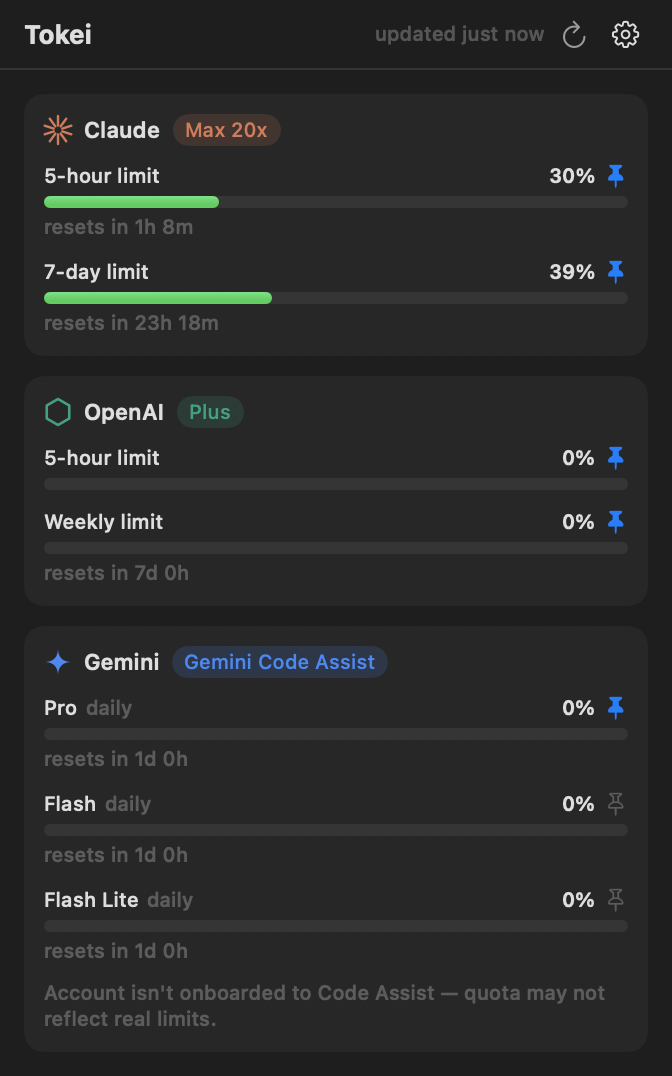
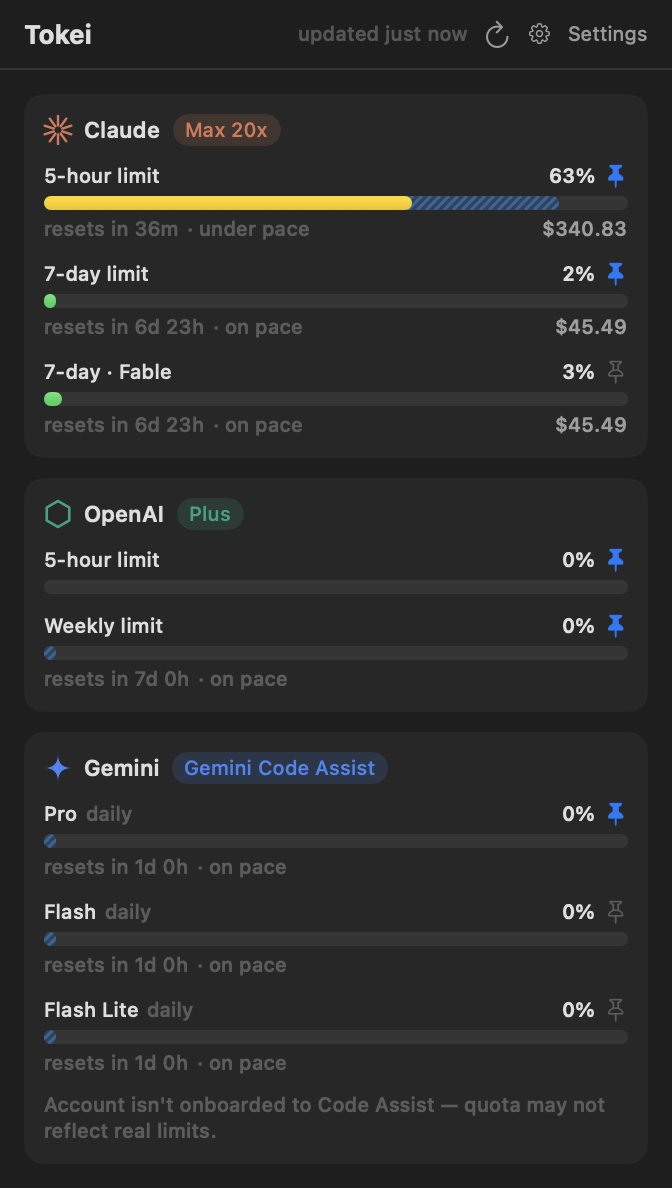
Refresh README screenshots and content for v1.4.0 features
New light/dark captures from the live app showing the pace indicator,
per-window inference dollars, and the Settings button; adds a Settings
window screenshot (Models tab). README now documents the pace
indicator, Claude inference-dollar pricing (with its transcript-based
methodology and caveats), the Settings window, and notarized releases;
install steps drop the right-click-to-open dance; self-test now
captures settings tabs in both appearances.

diff --git a/Sources/Tokei/Main.swift b/Sources/Tokei/Main.swift
@@ -243,14 +243,21 @@ final class AppDelegate: NSObject, NSApplicationDelegate {
             try? await Task.sleep(for: .milliseconds(600))
             if let window = settingsWindow, let store {
                 report.append("settingsWindow.visible: \(window.isVisible)")
+                let appearances: [(String, NSAppearance.Name, CGFloat)] = [
+                    ("light", .aqua, 0.97), ("dark", .darkAqua, 0.13),
+                ]
                 for tab in SettingsView.Tab.allCases {
                     let host = NSHostingController(
                         rootView: SettingsView(store: store, initialTab: tab))
                     window.contentViewController = host
-                    host.view.layoutSubtreeIfNeeded()
-                    try? await Task.sleep(for: .milliseconds(400))
-                    snapshot(host.view, to: "\(outputDir)/settings-\(tab.rawValue.lowercased()).png",
-                             background: NSColor(calibratedWhite: 0.97, alpha: 1))
+                    for (suffix, appearance, white) in appearances {
+                        host.view.appearance = NSAppearance(named: appearance)
+                        host.view.layoutSubtreeIfNeeded()
+                        try? await Task.sleep(for: .milliseconds(400))
+                        snapshot(host.view,
+                                 to: "\(outputDir)/settings-\(tab.rawValue.lowercased())-\(suffix).png",
+                                 background: NSColor(calibratedWhite: white, alpha: 1))
+                    }
                 }
                 window.close()
             }

diff --git a/README.md b/README.md
@@ -33,7 +33,7 @@ Tokei reads the credentials your local CLIs are already signed in with — no AP
 
 | Provider | Metrics | Source |
 |---|---|---|
-| **Claude** (Anthropic) | 5-hour and 7-day limits, plus model-scoped weekly limits (e.g. Fable, Opus) when your plan reports them | Claude Code's OAuth token → the same endpoint as `/usage` |
+| **Claude** (Anthropic) | 5-hour and 7-day limits, model-scoped weekly limits (e.g. Fable), and the dollar value of inference used per window | Claude Code's OAuth token → the same endpoint as `/usage`, plus local transcript pricing |
 | **OpenAI** (Codex) | 5-hour and weekly rate-limit windows, plan, credits | `~/.codex/auth.json` → the endpoint behind Codex's `/status` |
 | **Gemini** (Google) | Per-tier daily quota (Pro / Flash / Flash Lite) | `~/.gemini/oauth_creds.json` → Code Assist quota API |
 
@@ -41,21 +41,29 @@ Everything runs locally. Tokens are read from where the CLIs store them, request
 
 ## Features
 
-- **Menu bar readout** — each provider appears as its logo glyph with its pinned percentages, e.g. `✳ 29·39%  ⬡ 0·0%  ✦ 0%`. Pin or unpin any metric from its row; unpin everything for an icon-only look. ⌘-drag to reposition.
+- **Menu bar readout** — each provider appears as its logo glyph with its pinned percentages, e.g. `✳ 63·2%  ⬡ 0·0%  ✦ 0%`. Pin or unpin any metric; unpin everything for an icon-only look. ⌘-drag to reposition.
 - **Dashboard popover** — per-provider cards with color-coded usage bars (green → yellow → orange → red), plan badges (Max 20x, Plus, …), and live "resets in 2h 38m" countdowns.
+- **Pace indicator** — a hatched blue segment inside each bar marks where usage would sit if burned evenly until reset, with an "ahead of / on / under pace" note beside the countdown. Toggleable in Settings.
+- **Inference dollars (Claude)** — each window shows the API-equivalent dollar value of the inference used in it (e.g. `$340.83`), priced from Claude Code's local transcripts at current per-model rates, including cache-write and cache-read pricing.
 - **Both windows, always** — Claude and OpenAI always show their 5-hour and 7-day/weekly windows (an unreported window means 0% used). Gemini shows daily windows — the only kind Google's quota API has.
-- **Auto-refresh** — every 1/5/15/30 minutes plus refresh-on-open. Transient failures (including provider rate limits) keep the last good data on screen with a warning, and failed fetches retry automatically.
-- **In-app updates** — Tokei checks GitHub Releases twice a day (and via gear menu → Check for Updates); when a new version ships, a banner appears in the popover and one click downloads, installs, and relaunches.
-- **Launch at Login**, per-provider show/hide, graceful "not signed in" hints.
+- **Settings window** — General (open at login, refresh interval, pace toggle, updates), Models (provider visibility and menu-bar pins in one place), About.
+- **In-app updates** — Tokei checks GitHub Releases twice a day (and via Settings → Check for Updates); when a new version ships, a banner appears in the popover and one click downloads, installs, and relaunches. Releases are signed and notarized.
+- **Auto-refresh** — every 1/5/15/30 minutes plus refresh-on-open. Transient failures (including provider rate limits) keep the last good data on screen, and failed fetches retry automatically.
+
+<div align="center">
+<picture>
+  <source media="(prefers-color-scheme: dark)" srcset="Assets/screenshots/settings-dark.png">
+  <img src="Assets/screenshots/settings-light.png" width="480" alt="Tokei settings">
+</picture>
+</div>
 
 ## Install
 
 ### From a release
 
 1. Download the latest `Tokei-x.y.z.dmg` from [Releases](../../releases).
-2. Open it and drag **Tokei** into **Applications**.
-3. First launch: the app is not notarized, so **right-click Tokei → Open → Open**. (Or clear the quarantine flag: `xattr -d com.apple.quarantine /Applications/Tokei.app`.)
-4. If macOS asks for permission to read the **"Claude Code-credentials"** keychain item, click **Always Allow**.
+2. Open it and drag **Tokei** into **Applications** — releases are notarized, so it opens without warnings.
+3. If macOS asks for permission to read the **"Claude Code-credentials"** keychain item, click **Always Allow**.
 
 ### From source
 
@@ -78,7 +86,8 @@ make run            # run the debug build without installing
 
 ## How it gets your usage
 
-- **Claude** — Claude Code stores an OAuth token in the macOS Keychain (with `~/.claude/.credentials.json` as fallback). Tokei calls Anthropic's OAuth usage endpoint — the same one behind Claude Code's `/usage` — for 5-hour/7-day utilization and reset times. Tokei never refreshes this token itself; if it expires, open Claude Code once.
+- **Claude** — Claude Code stores an OAuth token in the macOS Keychain (with `~/.claude/.credentials.json` as fallback). Tokei calls Anthropic's OAuth usage endpoint — the same one behind Claude Code's `/usage` — for 5-hour/7-day utilization, reset times, and model-scoped limits. Tokei never refreshes this token itself; if it expires, open Claude Code once.
+- **Claude inference dollars** — subscription plans aren't billed per token, so Tokei computes the *API-equivalent value*: Claude Code logs every message's token usage to `~/.claude/projects/**/*.jsonl`, and Tokei prices those tokens at current API rates (input/output per model, cache writes at 1.25×/2× input for 5m/1h TTL, cache reads at 0.1×), summed per window. It measures this Mac's transcripts — usage from other devices or claude.ai isn't counted.
 - **OpenAI** — the Codex CLI stores ChatGPT OAuth tokens in `~/.codex/auth.json`. Tokei calls the usage endpoint behind Codex's `/status`. Codex refresh tokens rotate server-side, so Tokei deliberately never refreshes them (that could log the CLI out) — run any `codex` command if the token expires.
 - **Gemini** — the Gemini CLI stores Google OAuth credentials in `~/.gemini/oauth_creds.json`. Hourly access tokens are refreshed in memory using the CLI's own public OAuth client (read from your local gemini-cli install); nothing is written back. Quota comes from the Code Assist `retrieveUserQuota` endpoint.
 
@@ -95,14 +104,15 @@ make run            # run the debug build without installing
 - **OpenAI shows "not connected"** — run `codex login`.
 - **Gemini shows "sign-in expired"** — run `gemini` and complete the Google login.
 - **Gemini reads 0% forever** — consumer Google accounts lost Gemini CLI access in June 2026; Tokei flags this ("not onboarded to Code Assist"). Code Assist Standard/Enterprise accounts report real usage.
+- **No dollar figures on Claude rows** — they appear only when Claude Code transcripts exist on this Mac for the current window.
 - **Can't find the menu bar item** — a crowded menu bar (many status items) can push items into macOS's hidden overflow. Remove/rearrange items (⌘-drag) to make room; Tokei requests a slot near the system icons on first launch.
 
 ## Releasing (maintainers)
 
-Tag a version and push — GitHub Actions builds the DMG and attaches it to a release:
+Bump `CFBundleShortVersionString` in `scripts/Info.plist`, then tag and push — GitHub Actions tests, signs, notarizes, and publishes the DMG:
 
 ```sh
-git tag v1.0.1 && git push origin v1.0.1
+git tag v1.5.0 && git push origin v1.5.0
 ```
 
 Signing + notarization activate automatically when these repo secrets exist (Settings → Secrets and variables → Actions, or `gh secret set`):
@@ -115,7 +125,7 @@ Signing + notarization activate automatically when these repo secrets exist (Set
 | `APPLE_TEAM_ID` | 10-character Team ID (developer.apple.com → Membership) |
 | `APPLE_APP_SPECIFIC_PASSWORD` | App-specific password from account.apple.com → Sign-In & Security |
 
-With the secrets in place the workflow signs with the hardened runtime, notarizes via `notarytool`, staples the ticket, and ships a Gatekeeper-clean DMG. Without them it falls back to an ad-hoc signed build (right-click → Open required).
+Without the secrets the workflow falls back to an ad-hoc signed build (right-click → Open required).
 
 ## Development
 
@@ -124,11 +134,11 @@ swift build && swift test
 .build/debug/Tokei --check                        # live end-to-end fetch, no UI
 .build/debug/Tokei --render-popover out.png       # render the popover to a PNG
 .build/debug/Tokei --render-label out.png dark    # render the menu bar label (light|dark)
-open build/Tokei.app --args --self-test /tmp/st --demo   # live-app self-test with window snapshots
+open build/Tokei.app --args --self-test /tmp/st --demo   # live-app self-test: window snapshots in both appearances
 ```
 
 Sources live under `Sources/Tokei/`:
 
-- `Services/` — one client per provider plus the polling `UsageStore`
-- `Views/` — popover dashboard, provider logos, menu bar label
+- `Services/` — one client per provider, the polling `UsageStore`, the local cost calculator, and the update checker/installer
+- `Views/` — popover dashboard, settings window, provider logos, menu bar label
 - `Support/` — HTTP/JSON helpers, timeout/timestamp utilities, Keychain access
